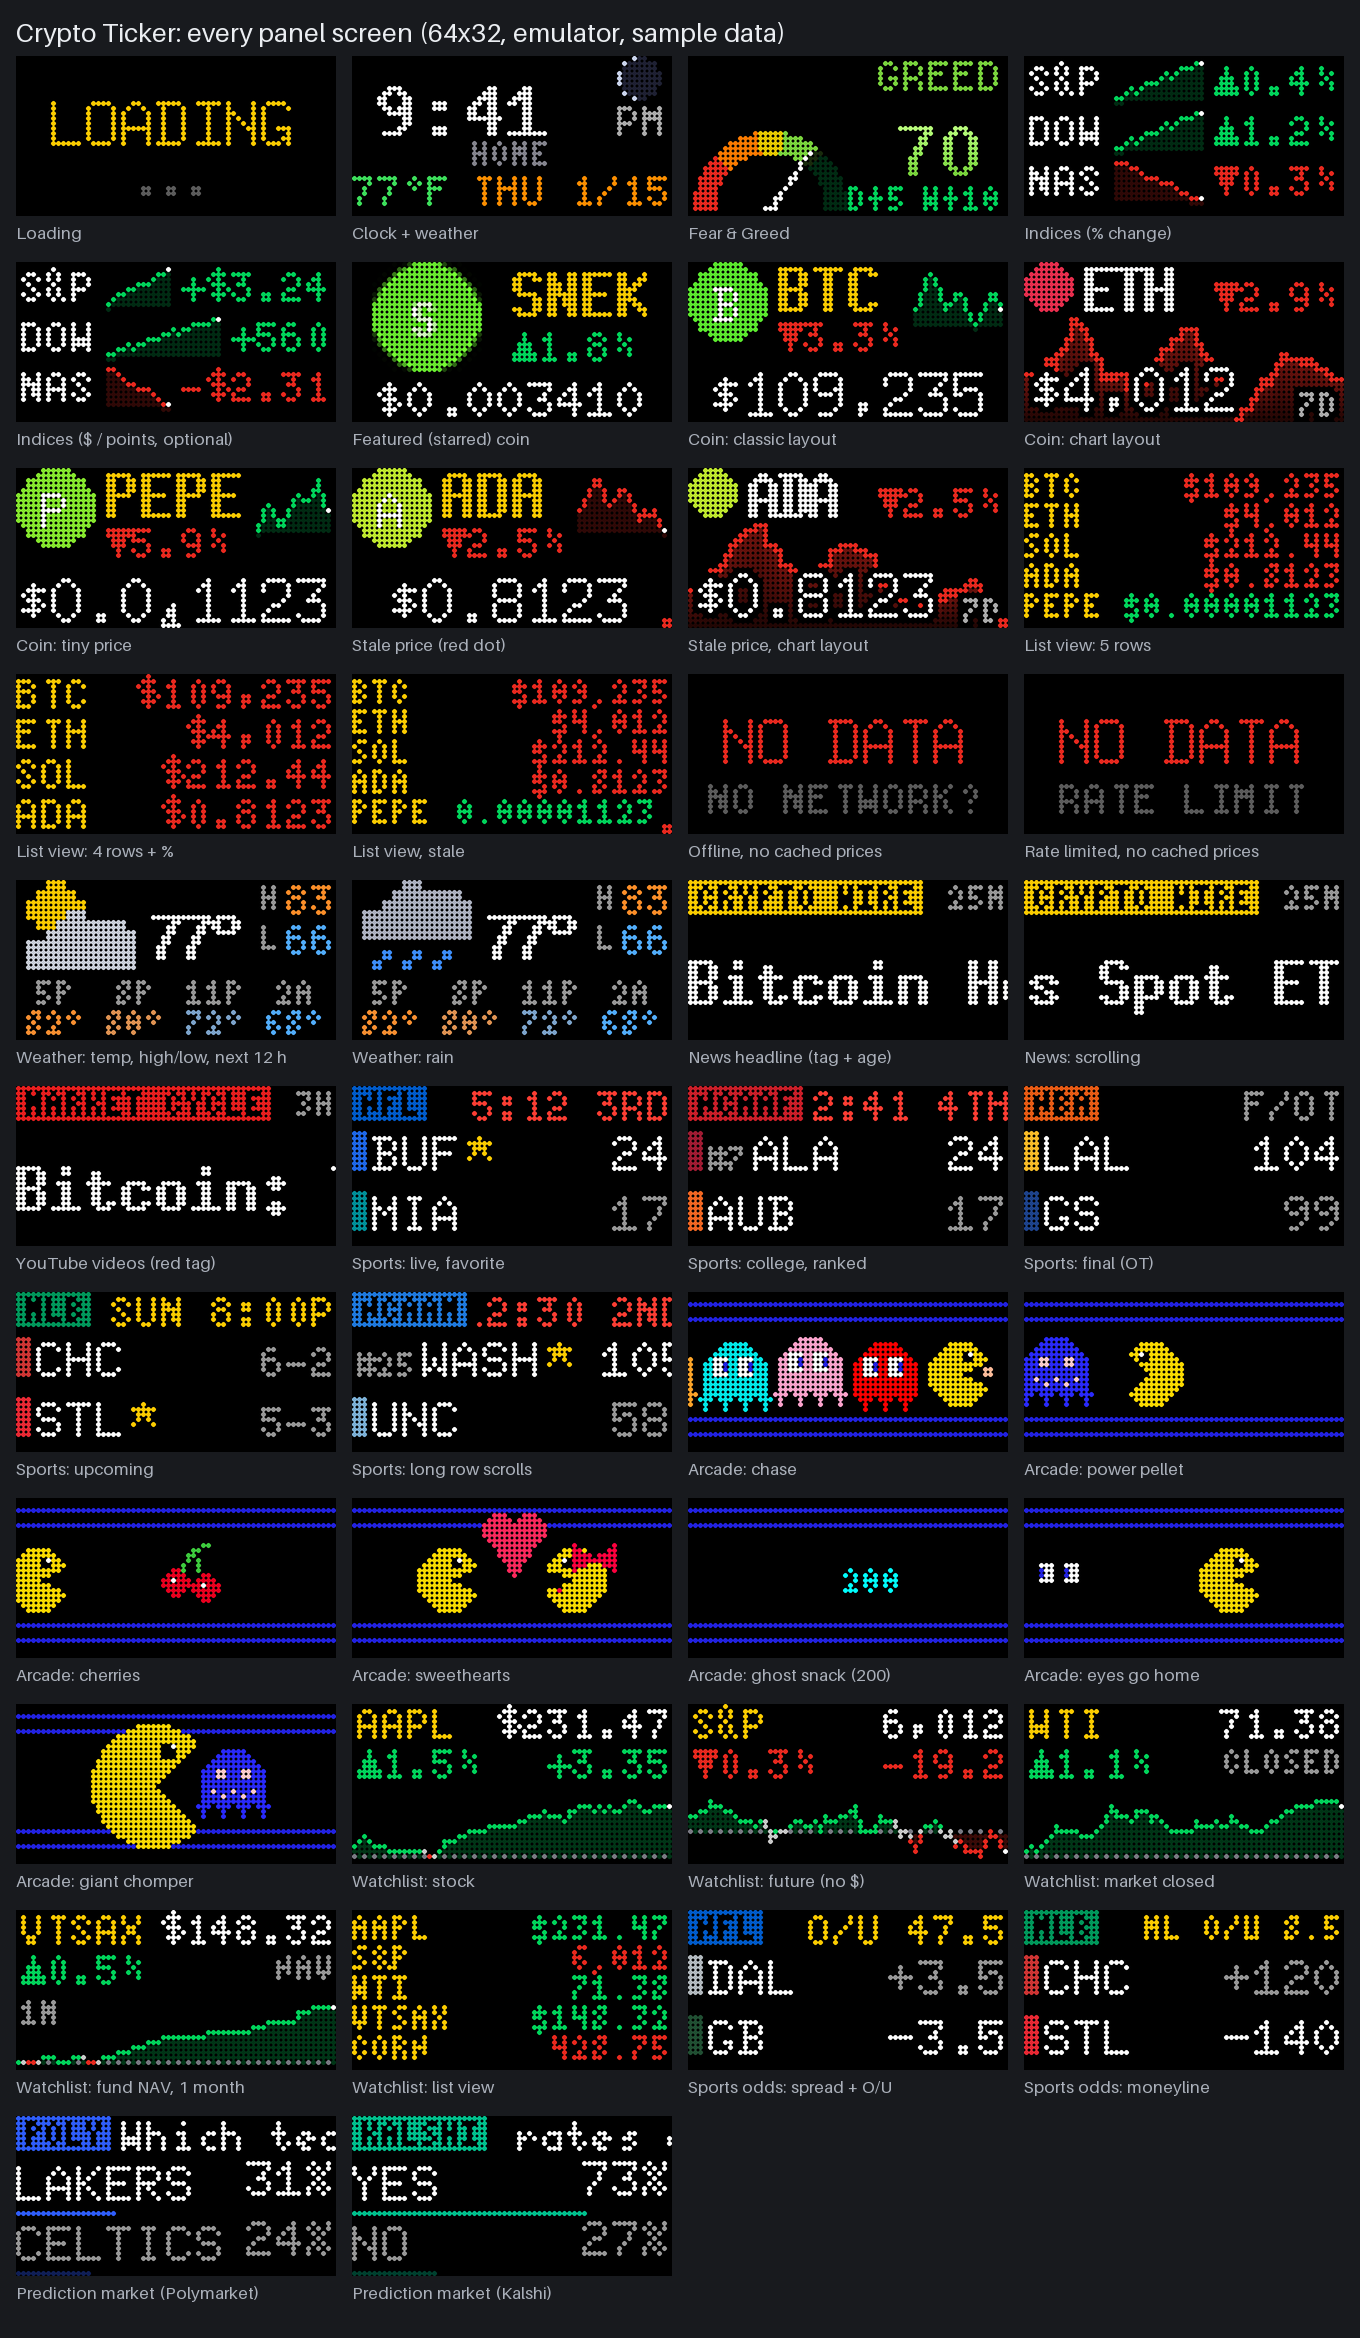
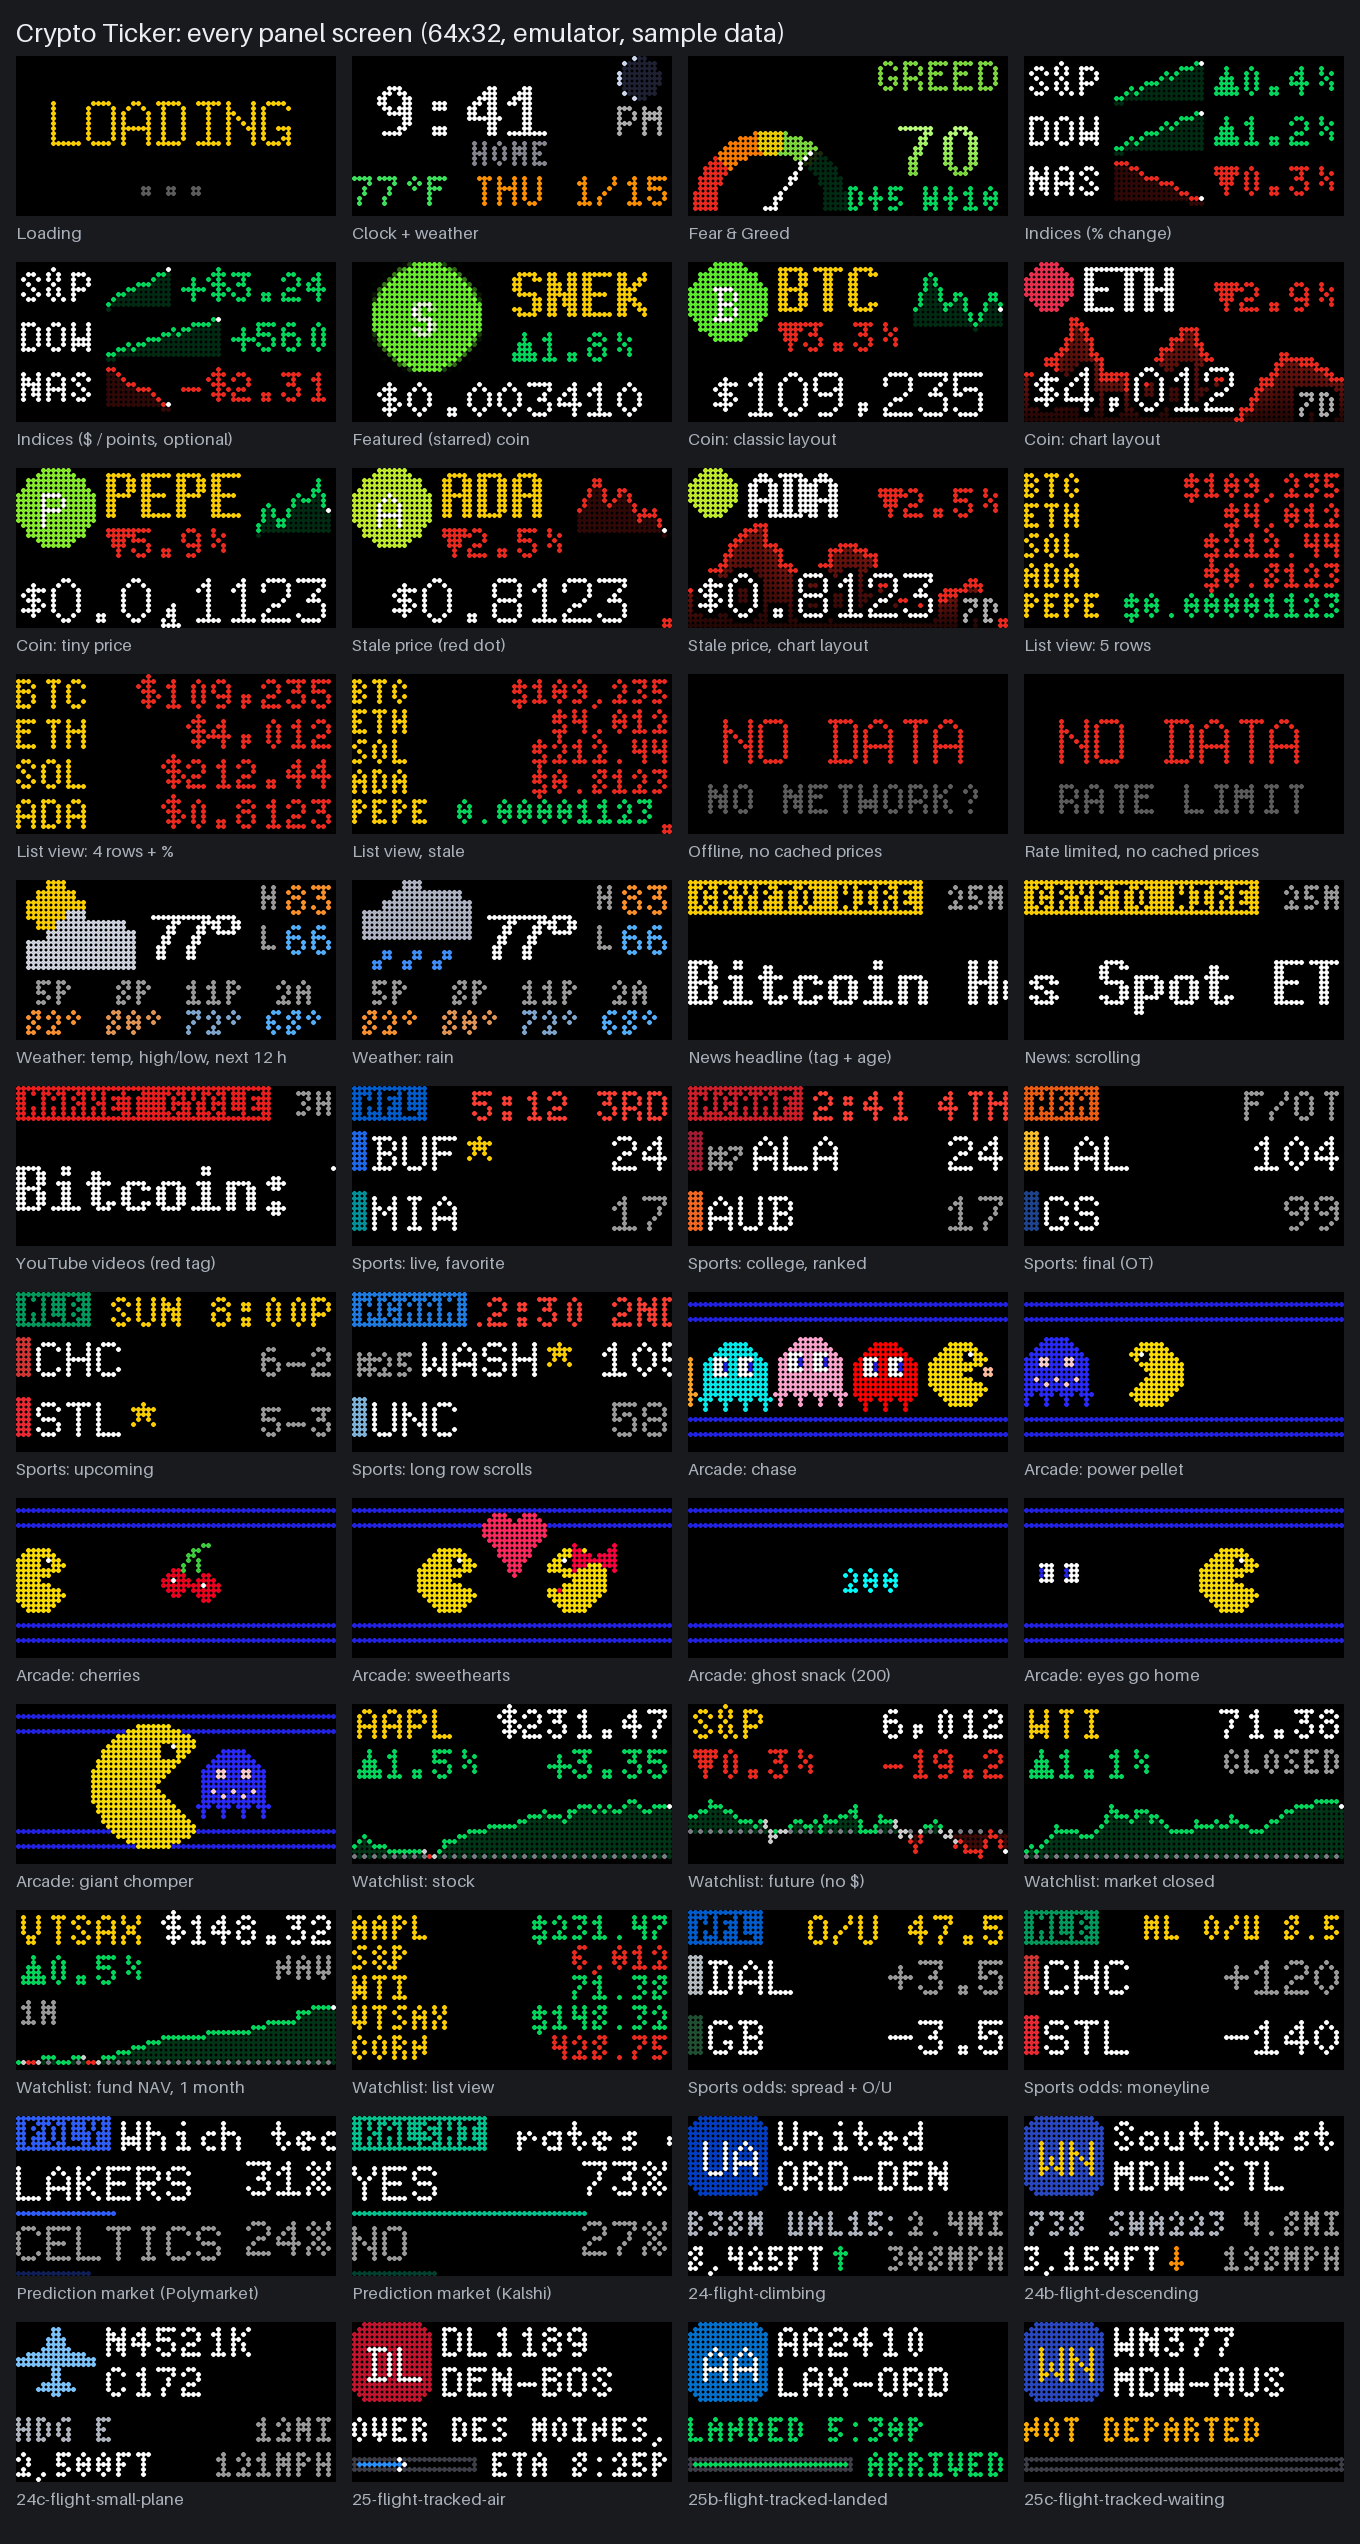
Flights cleanup: one request at a time across both feeds, tidier code
- The overhead and tracking feeds share one web session from two background
  threads; requests now go through a lock (and stay spaced per host).
- Airline picture cache set up in the renderer, capped; unused code removed.
- Panel overview image now includes the flight screens.

Claude-Session: https://claude.ai/code/session_01CrJipBzGt8f3awuG29As43

diff --git a/render.py b/render.py
@@ -135,6 +135,7 @@ class Renderer:
         self.w, self.h = width, height
         self.layout = layout if layout in self.LAYOUTS else "classic"
         self._count = 0
+        self._logos = {}            # your airline pictures, fitted to the panel
         self.currency = currency
         self.fonts = load_fonts()
         self.tall = height >= 64
@@ -706,11 +707,12 @@ class Renderer:
         if icao:
             path = os.path.join(AIRLINE_DIR, f"{icao}.png")
             try:
-                key = (icao, size, os.path.getmtime(path))
-                cache = self.__dict__.setdefault("_logos", {})
-                if key not in cache:
-                    cache[key] = fit_logo(Image.open(path).convert("RGBA"), size)
-                return cache[key]
+                key = (icao, size, os.path.getmtime(path))   # a new upload changes the time
+                if key not in self._logos:
+                    if len(self._logos) > 100:
+                        self._logos.clear()
+                    self._logos[key] = fit_logo(Image.open(path).convert("RGBA"), size)
+                return self._logos[key]
             except OSError:
                 pass  # no file (or unreadable): the tile below
             color, ink = self.AIRLINE_COLORS.get(icao, (None, (255, 255, 255)))
@@ -809,14 +811,12 @@ class Renderer:
             self.fonts["4x6"].draw(bg, self.w - self.fonts["4x6"].width(spd), top + 31, spd, DIM_TEXT)
         return Scroller(bg, lanes, speed=SPEEDS["normal"], min_hold=hold)
 
-    def tracked_flight(self, r, tz=None, hold=5.0, now_ts=None):
+    def tracked_flight(self, r, tz=None, hold=5.0):
         """A flight you're following: airline picture, flight number and route, then
         where it is (or LANDED / NOT DEPARTED / NO SIGNAL), then a progress bar with the
         estimated arrival time."""
-        import time as _time
         from flights import airline_codes
         from scroller import SPEEDS, Scroller
-        now_ts = now_ts or _time.time()
         bg = Image.new("RGB", (self.w, self.h))
         top = (self.h - 32) // 2
         lanes = []

diff --git a/flights.py b/flights.py
@@ -270,17 +270,21 @@ def tracked_from_env(raw):
 
 # --- shared helpers ------------------------------------------------------------------
 class _Lookups:
-    """Route and airline lookups (adsbdb), cached; shared by both feeds."""
+    """Web requests and cached route/airline lookups (adsbdb), shared by the overhead and
+    tracking feeds. Both run in their own background threads, so requests go through
+    one lock: one at a time, spaced per host (a few a minute at most)."""
 
     def __init__(self, session):
         self.session = session
         self.routes = {}            # callsign -> (route or None, expires)
         self.airlines = {}          # IATA code -> ICAO code ("" if unknown)
         self.lock = threading.Lock()
+        self.http_lock = threading.Lock()
 
     def get(self, url, **kw):
-        _throttle(url)
-        return self.session.get(url, timeout=kw.pop("timeout", 12), **kw)
+        with self.http_lock:
+            _throttle(url)
+            return self.session.get(url, timeout=kw.pop("timeout", 12), **kw)
 
     def route(self, callsign, now=None):
         with self.lock:
@@ -370,10 +374,6 @@ class Flights(Feed):
         self.lookups = lookups or _Lookups(self.session)
         self.source = ""
         self.fetched = 0.0
-
-    @property
-    def routes(self):
-        return self.lookups.routes
 
     def _positions(self):
         nm = max(1, math.ceil(self.radius_mi / MI_PER_NM))

diff --git a/tests/test_flights.py b/tests/test_flights.py
@@ -229,6 +229,26 @@ def test_no_location_means_no_calls():
     assert f.fetch() is None and net.calls == []
 
 
+def test_shared_lookups_send_one_request_at_a_time():
+    import threading
+    active, peak = [0], [0]
+
+    class Slow:
+        def get(self, url, **kw):
+            active[0] += 1
+            peak[0] = max(peak[0], active[0])
+            time.sleep(0.02)
+            active[0] -= 1
+            return FakeResponse(200, {"ac": []})
+    lk = fl._Lookups(Slow())
+    threads = [threading.Thread(target=lk.get, args=(f"https://h{i}.example/x",)) for i in range(6)]
+    for t in threads:
+        t.start()
+    for t in threads:
+        t.join()
+    assert peak[0] == 1
+
+
 def test_requests_to_one_host_are_spaced(monkeypatch):
     monkeypatch.setattr(fl, "MIN_GAP", 0.05)
     fl._hosts.clear()
@@ -564,6 +584,7 @@ def test_airline_picture_upload_and_reset(app, tmp_path, monkeypatch):
 def test_airline_routes_need_login_and_check_codes(server):
     from conftest import login, request
     assert request(server, "POST", "/api/airline-icon?code=UAL", b"x")[0] == 401
+    assert request(server, "POST", "/api/airline-icon/reset?code=UAL")[0] == 401
     auth = login(server)
     assert request(server, "GET", "/api/airline-badge?code=../x", headers=auth)[0] == 400
     assert request(server, "POST", "/api/airline-icon?code=UAL", b"not a picture", auth)[0] == 400

diff --git a/webui.py b/webui.py
@@ -1081,7 +1081,7 @@ function flightRows(){
   const label={air:'In the air',landed:'Landed',ground:'On the ground',lost:'No signal right now',waiting:'Not departed yet',checking:'Checking…'};
   const line=f=>{const x=st[f];
     const msg=!x?'<span class="name">Checked when you save</span>'
-      :x.error&&x.error!=''?`<span style="color:#ff6b5e">⚠ ${esc(x.error)}</span>`
+      :x.error?`<span style="color:#ff6b5e">⚠ ${esc(x.error)}</span>`
       :`<span style="color:${x.status=='landed'?'#3ad07a':x.status=='air'?'var(--text)':'#f5b400'}">${label[x.status]||esc(x.status)}${x.route?' · '+esc(x.route):''}${x.place&&x.status=='air'?' · over '+esc(x.place):''}</span>`;
     return `<div class="row"><div class="grow" style="min-width:0"><div style="font:13px ui-monospace,monospace">${esc(f)}${x&&x.callsign&&x.callsign!=f?` <span class="name">(${esc(x.callsign)})</span>`:''}</div><div style="font-size:13px">${msg}</div></div></div>`};
   const air=a=>`<div class="row" data-air="${a.icao}" style="cursor:pointer"><img src="/api/airline-badge?code=${a.icao}&iata=${a.iata||''}&v=${a.custom?Date.now():0}" alt="" style="width:32px;height:32px;border-radius:6px;image-rendering:pixelated">

diff --git a/screenshots.py b/screenshots.py
@@ -157,9 +157,9 @@ def main():
         ("24-flight-climbing", lambda: r.flight(flights[0]).first_frame()),
         ("24b-flight-descending", lambda: mid(r.flight(flights[1]))),
         ("24c-flight-small-plane", lambda: r.flight(flights[2]).first_frame()),
-        ("25-flight-tracked-air", lambda: r.tracked_flight(tracked[0], SPORTS_TZ, now_ts=news_now).first_frame()),
-        ("25b-flight-tracked-landed", lambda: r.tracked_flight(tracked[1], SPORTS_TZ, now_ts=news_now).first_frame()),
-        ("25c-flight-tracked-waiting", lambda: r.tracked_flight(tracked[2], SPORTS_TZ, now_ts=news_now).first_frame()),
+        ("25-flight-tracked-air", lambda: r.tracked_flight(tracked[0], SPORTS_TZ).first_frame()),
+        ("25b-flight-tracked-landed", lambda: r.tracked_flight(tracked[1], SPORTS_TZ).first_frame()),
+        ("25c-flight-tracked-waiting", lambda: r.tracked_flight(tracked[2], SPORTS_TZ).first_frame()),
     ]
     paths = []
     for name, make in shots:
